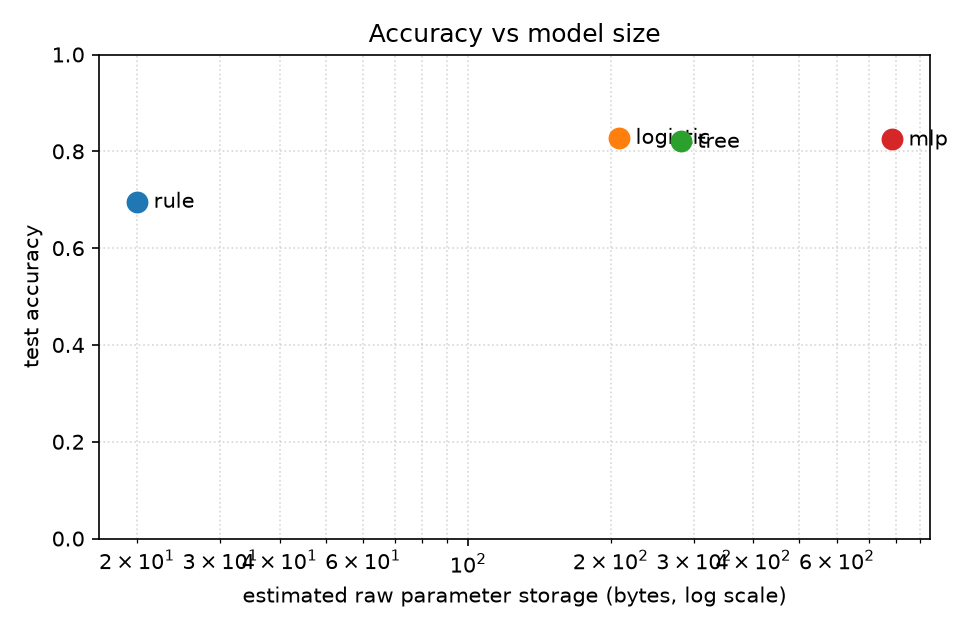
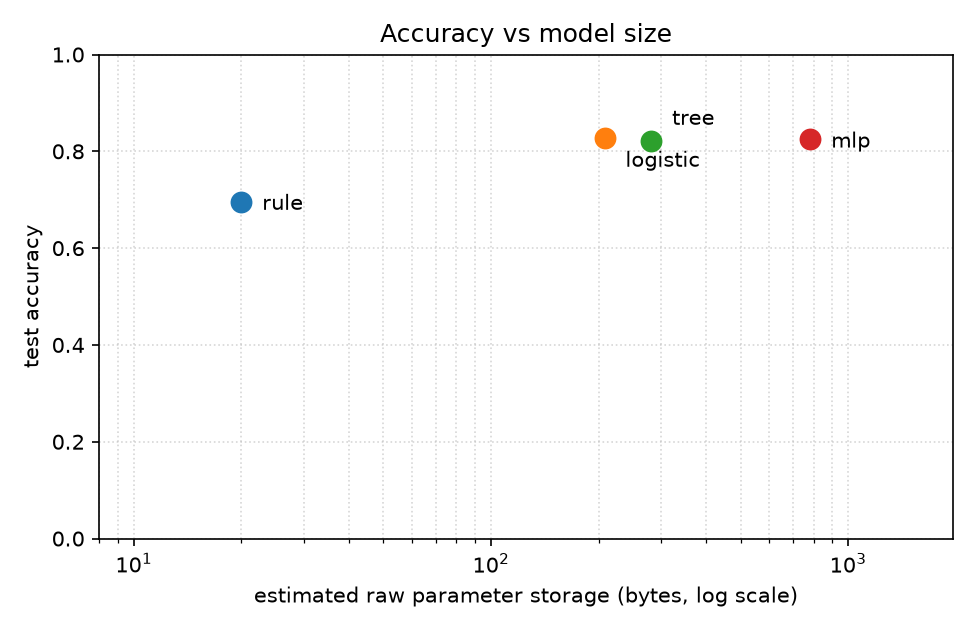
Avoid overlapping labels in the accuracy/size plot

diff --git a/benchmark/run_benchmark.py b/benchmark/run_benchmark.py
@@ -70,10 +70,14 @@ def run(methods=None):
 
 def plot_accuracy_vs_size(results, path):
     fig, ax = plt.subplots(figsize=(6.5, 4.2))
-    for row in results:
+    # alternate the label offsets so neighbouring points do not overlap
+    offsets = [((10, -4), "left"), ((10, -14), "left"), ((10, 8), "left"), ((10, -4), "left")]
+    for row, (offset, align) in zip(results, offsets):
         ax.scatter(row["size_bytes"], row["accuracy"], s=90, zorder=3)
         ax.annotate(row["method"], (row["size_bytes"], row["accuracy"]),
-                    textcoords="offset points", xytext=(8, -3))
+                    textcoords="offset points", xytext=offset, ha=align)
+    sizes = [row["size_bytes"] for row in results]
+    ax.set_xlim(min(sizes) * 0.4, max(sizes) * 2.5)
     ax.set_xscale("log")
     ax.set_xlabel("estimated raw parameter storage (bytes, log scale)")
     ax.set_ylabel("test accuracy")
